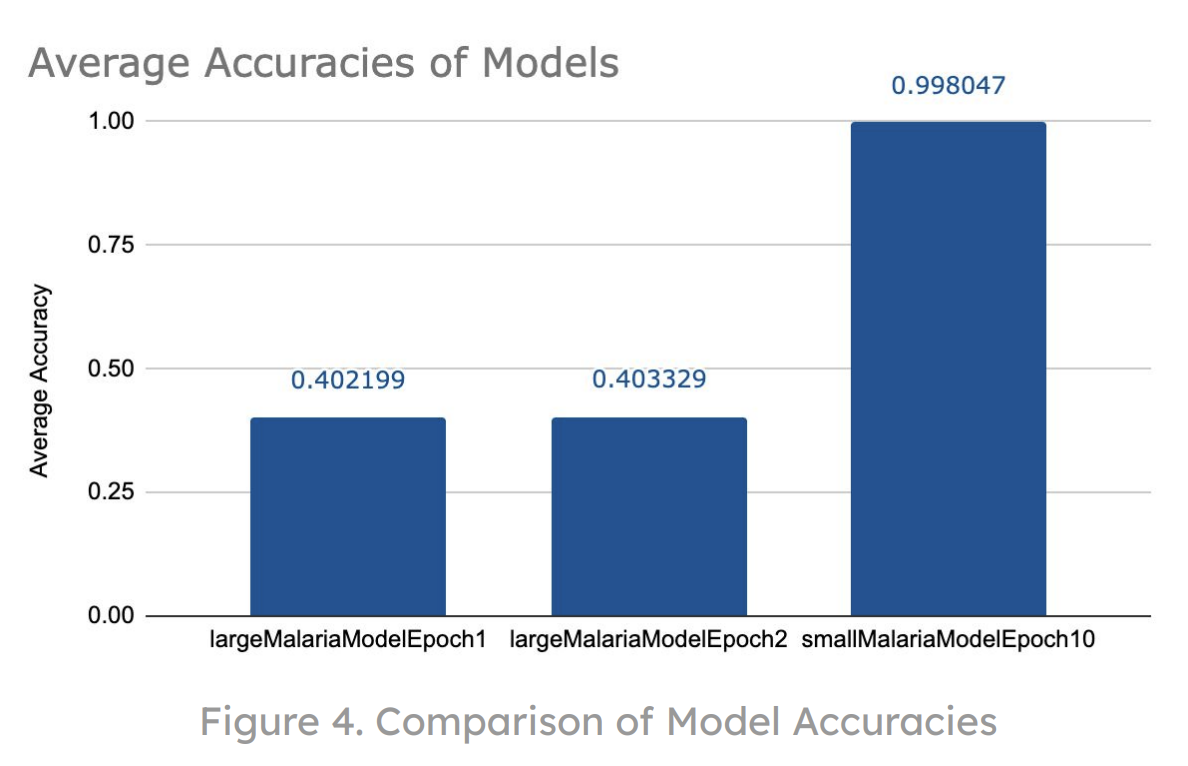
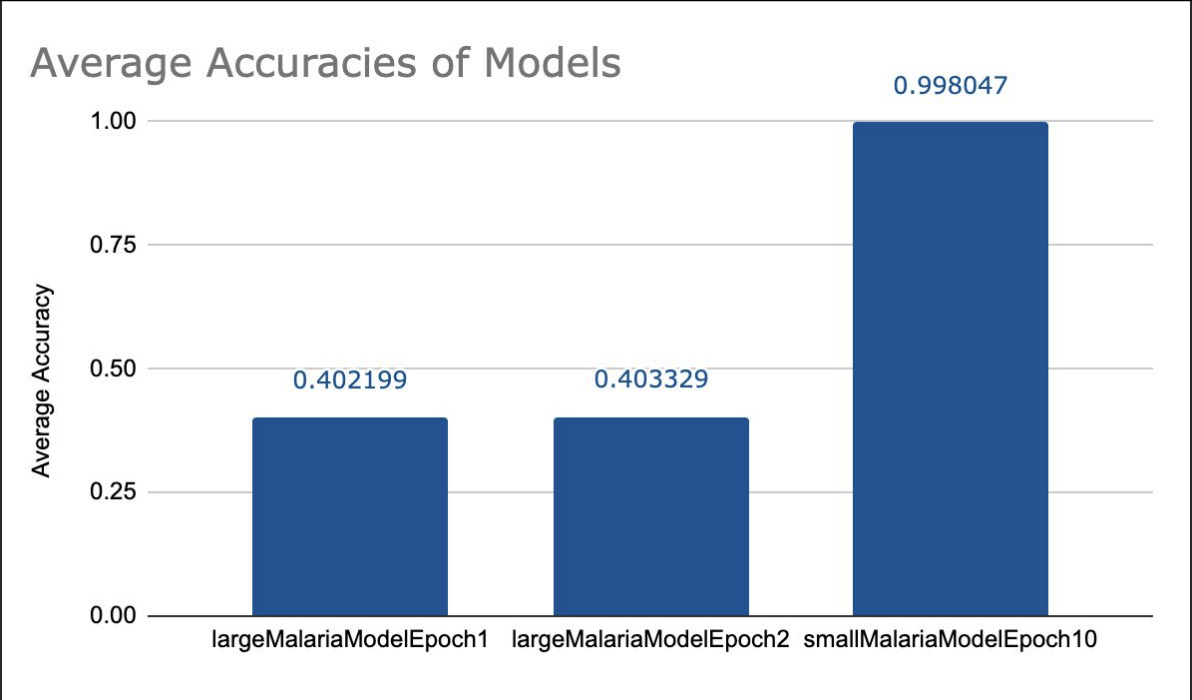
Images

diff --git a/index.md b/index.md
@@ -47,6 +47,7 @@ k-mer frequency (3-mers), and GC content were computed for each chunk to analyze
 statistical properties of the dataset.
 
 ![Preview of Genomic Dataset](images/Data.png)
+*Figure 1: Preview of Genomic Dataset*
 
 The processed dataset provides a structured input for training the BERT-based language
 model, enabling it to learn the contextual relationships between nucleotide sequences. Future iterations of the project may explore training on additional Plasmodium species or
@@ -74,8 +75,11 @@ vocabulary, similar to word embeddings in NLP.
 training on paired sequences.  
 
 ### Training and Fine-Tuning
-The model is trained using negative log-likelihood loss (NLLLoss) for both the MLM and
-NSP tasks.
+The model is trained using negative log-likelihood loss (NLLLoss) for both the MLM (Masked Learning Model) and
+NSP (Next Sentence Prediction) tasks.
+
+![Comparison of Model Accuracy](images/Model.png)
+*Figure 2: BERT Based MLM Pipeline*
 
 ### Correlation between mutations and drug resistance
 
@@ -83,10 +87,13 @@ NSP tasks.
 We trained several models, a selection of which can be seen in the table. Our models that are labeled as being large were trained off approximately 80% of our training data, approximately 36000 pieces of data while the small models were trained for fewer epochs from 2000 pieces of data. We were able to achieve a 40% accuracy with our large models and a 99% accuracy with our small model.
 
 ![Comparison of Model Accuracy](images/Comp.png)
+*Figure 3: Comparison of Model Accuracy*
+
 
 Each of these models have the ability to produce a series of probabilities that represent the likelihood of a nucleotide for each position in a sequence. By grabbing the maximum probability for each position, we get a prediction for what nucleotide we think should occupy that position. In the case shown by the figures below, for positions 20-29 of the sequence we predict the input sequence to be \"CCCCCCAAAC\". 
 
 ![Sequence Prediction](images/Prob.png)
+*Figure 4: Sequence Prediction*
 
 
 ## Conclusion/Discussion
